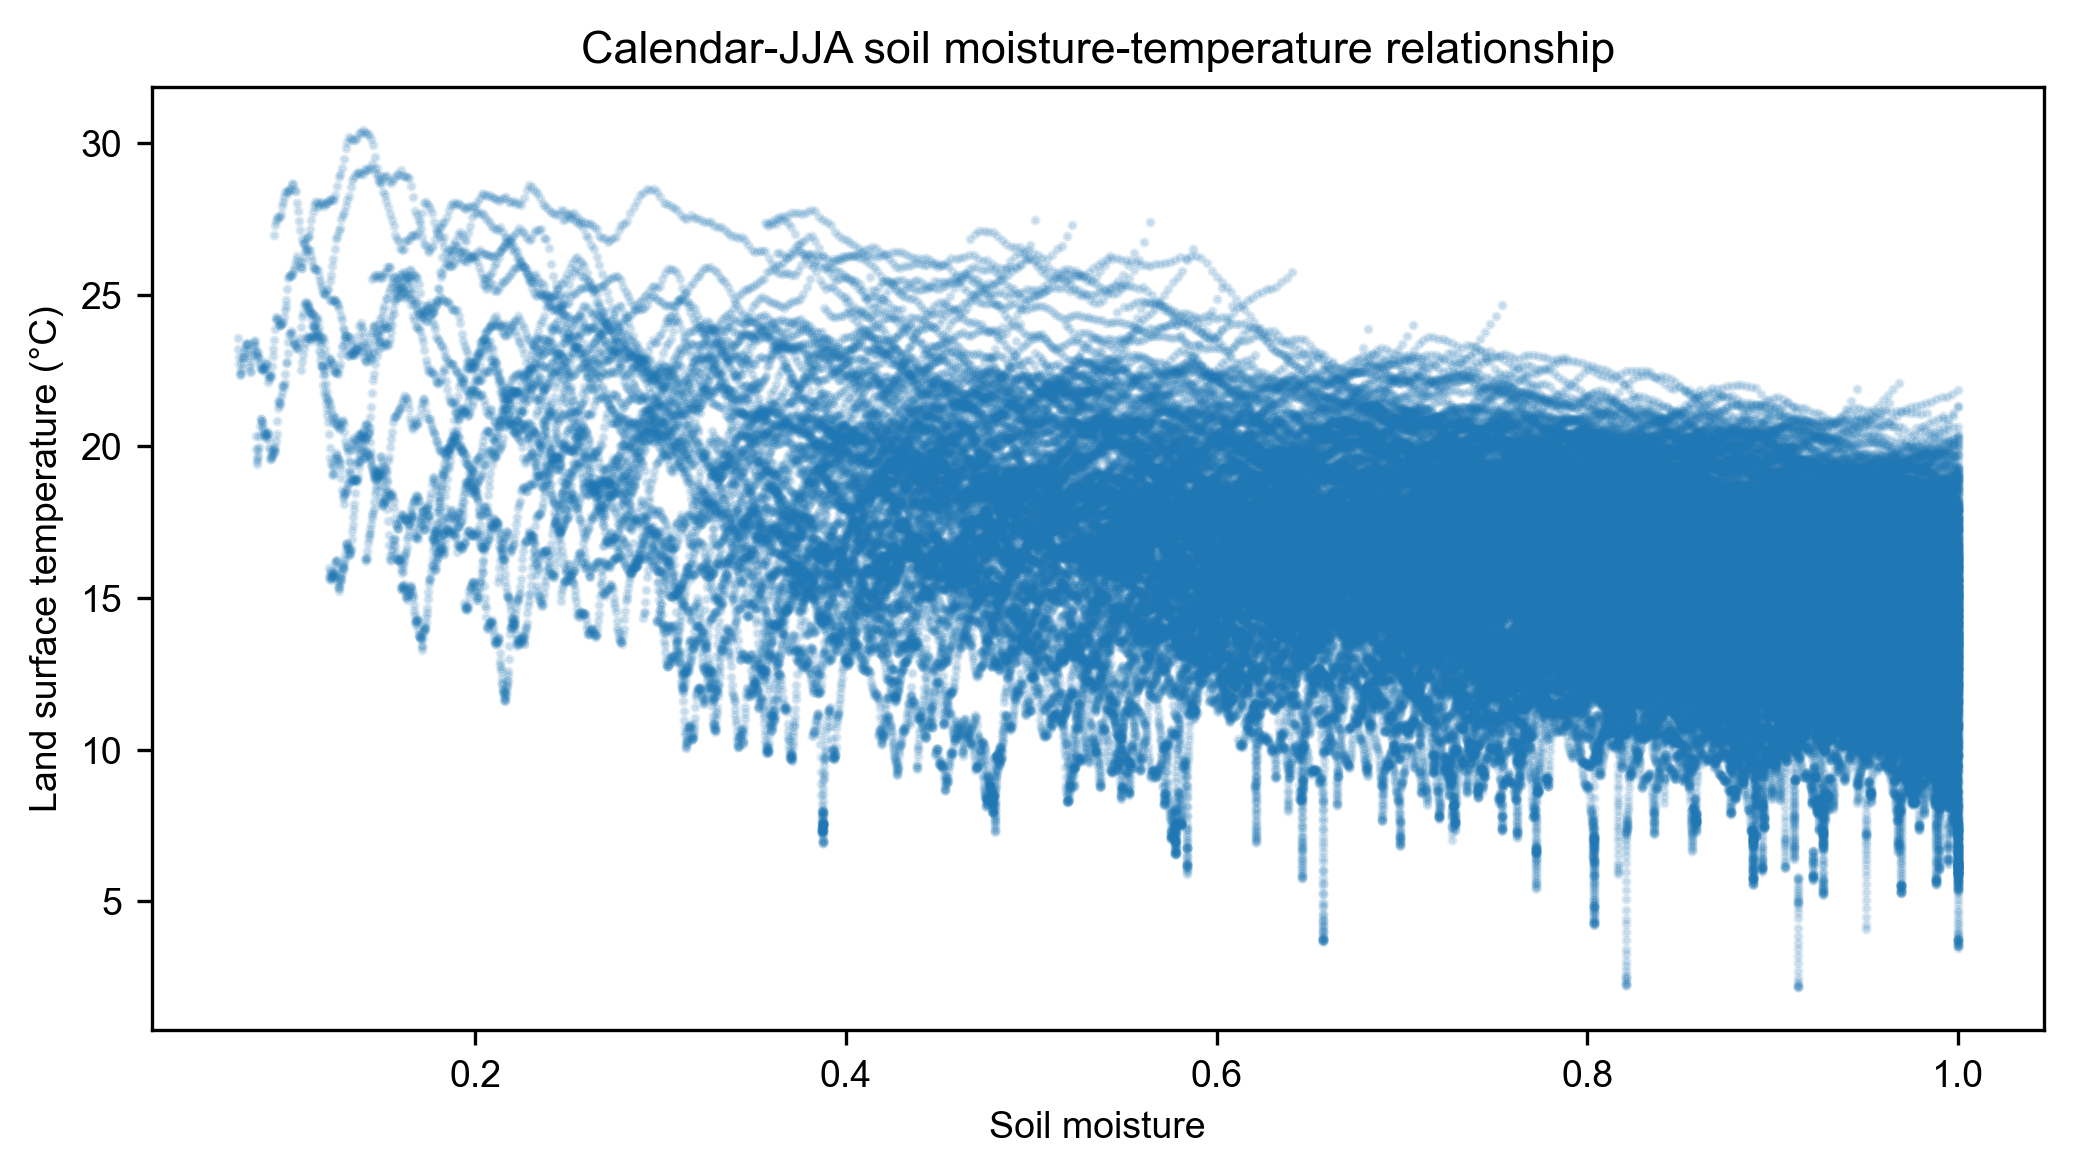
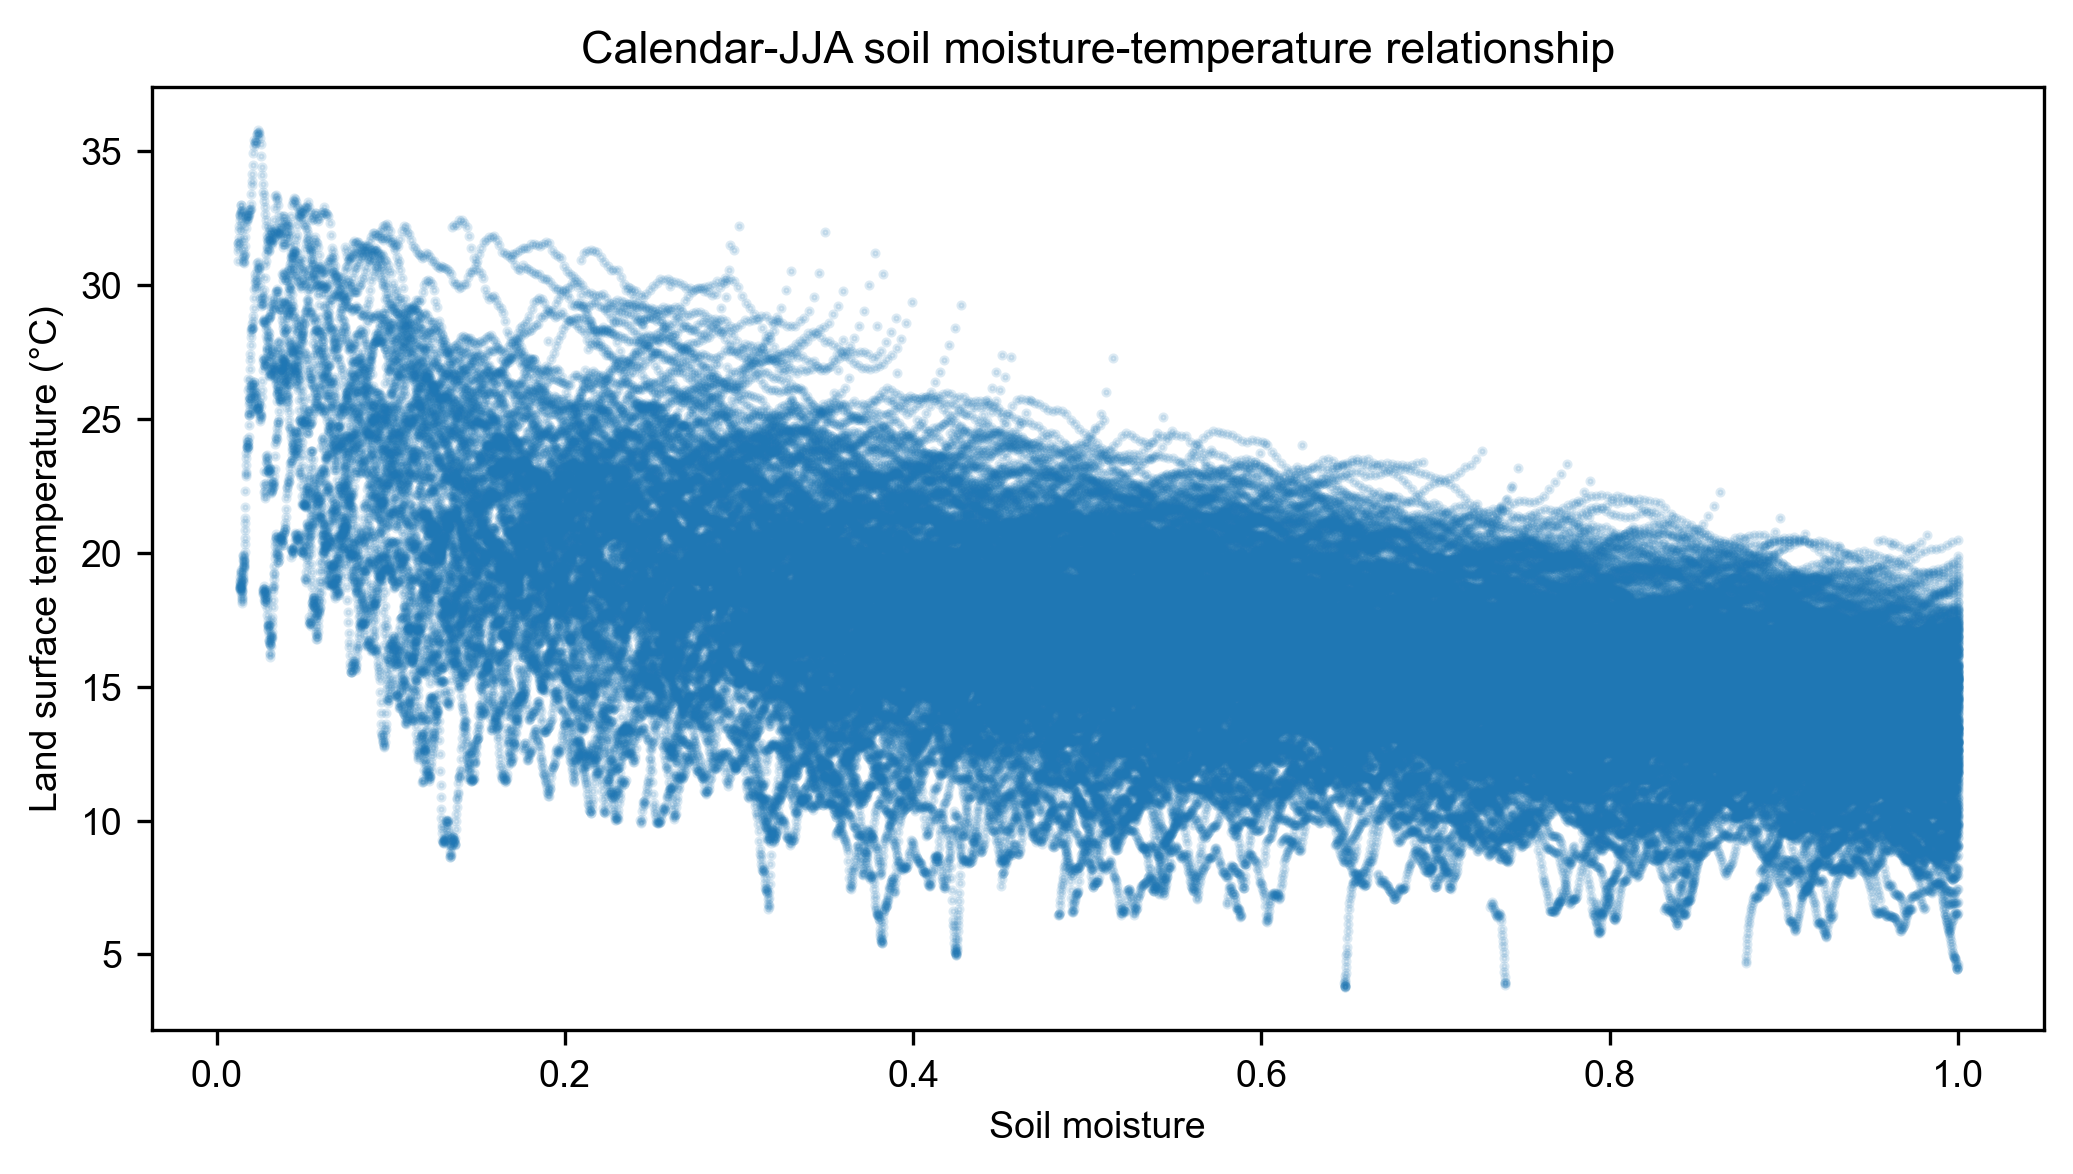
Update two-day model parameters and figures

diff --git a/land_ocean_box_model.py b/land_ocean_box_model.py
@@ -98,15 +98,15 @@ r_SS = 1000.0
 # LAND-OCEAN MIXING
 # ============================================================
 
-tau_mix = 1.0 * day
+tau_mix = 2.0 * day
 
 # ============================================================
 # FREE-TROPOSPHERIC ENTRAINMENT
 # ============================================================
 
-tau_ent_L = 5.0 * day
+tau_ent_L = 2.0 * day
 
-tau_ent_o = 5.0 * day
+tau_ent_o = 2.0 * day
 
 We_L = 1.0 / tau_ent_L
 
@@ -116,7 +116,7 @@ We_o = 1.0 / tau_ent_o
 # FIXED OCEAN SST
 # ============================================================
 
-To = 288.0
+To = 290.0
 
 dTo_dt = 0.0
 

diff --git a/README.md b/README.md
@@ -215,11 +215,11 @@ so the mean event depth is $8\ \mathrm{mm}$.
 
 ## Reference numerical experiment
 
-The committed reference experiment integrates 100 years with an hourly timestep, removes the first 10 years as spin-up, fixes $T_o=288\ \mathrm{K}$, and uses a 1-day land--ocean mixing timescale. Radiative forcing uses random seed 123 and precipitation uses seed 42. For model days 151--242 after spin-up, the run gives
+The committed reference experiment integrates 100 years with an hourly timestep, removes the first 10 years as spin-up, fixes $T_o=290\ \mathrm{K}$, and uses 2-day land--ocean mixing and 2-day free-tropospheric entrainment timescales for both atmospheric boxes. Radiative forcing uses random seed 123 and precipitation uses seed 42. For model days 151--242 after spin-up, the run gives
 
-- mean land surface temperature: $288.584\ \mathrm{K}$;
-- standard deviation: $3.242\ \mathrm{K}$;
-- population skewness: $0.225$.
+- mean land surface temperature: $289.520\ \mathrm{K}$;
+- standard deviation: $3.864\ \mathrm{K}$;
+- population skewness: $0.545$.
 
 Because the forcing is stationary and has no annual cycle, this fixed calendar-JJA window is only a consistent subsample of the stationary integration; it is not a physically distinct simulated summer season. These values and figures are deterministic outputs of the current code and parameter set, not observational validation.
 
